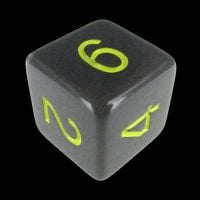
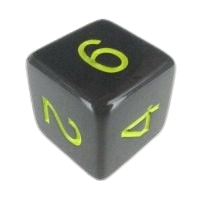
Alterando as imagens dos dados para imagens sem fundos

diff --git a/src/app/views/home/home.css b/src/app/views/home/home.css
@@ -15,7 +15,7 @@ footer {
   justify-content: space-around;
   width: 100%;
   padding: 20px 0px;
-
+  height: 20vh;
 }
 
 ::ng-deep .p-button{
@@ -23,7 +23,13 @@ footer {
 }
 
 .dado {
-  width: 200px;
+  width: 300px;
+}
+
+.imagem {
+  display: flex;
+  flex-direction: column;
+  align-items: center;
 }
 
 .sessao-rolagem {
@@ -31,4 +37,5 @@ footer {
   width: 100%;
   justify-content: space-around;
   align-items: center;
+  height: 70vh;
 }

diff --git a/src/app/views/home/home.html b/src/app/views/home/home.html
@@ -13,7 +13,7 @@
       </div>
     </section>
     <section class="sessao-rolagem">
-      <div>
+      <div class="imagem">
         <!-- Imagem quando nenhum dado for selecionado -->
         <img *ngIf="dadoSelecionado === null" class="dado" src="/d.png" alt="Dado com todos os lados" />
 
